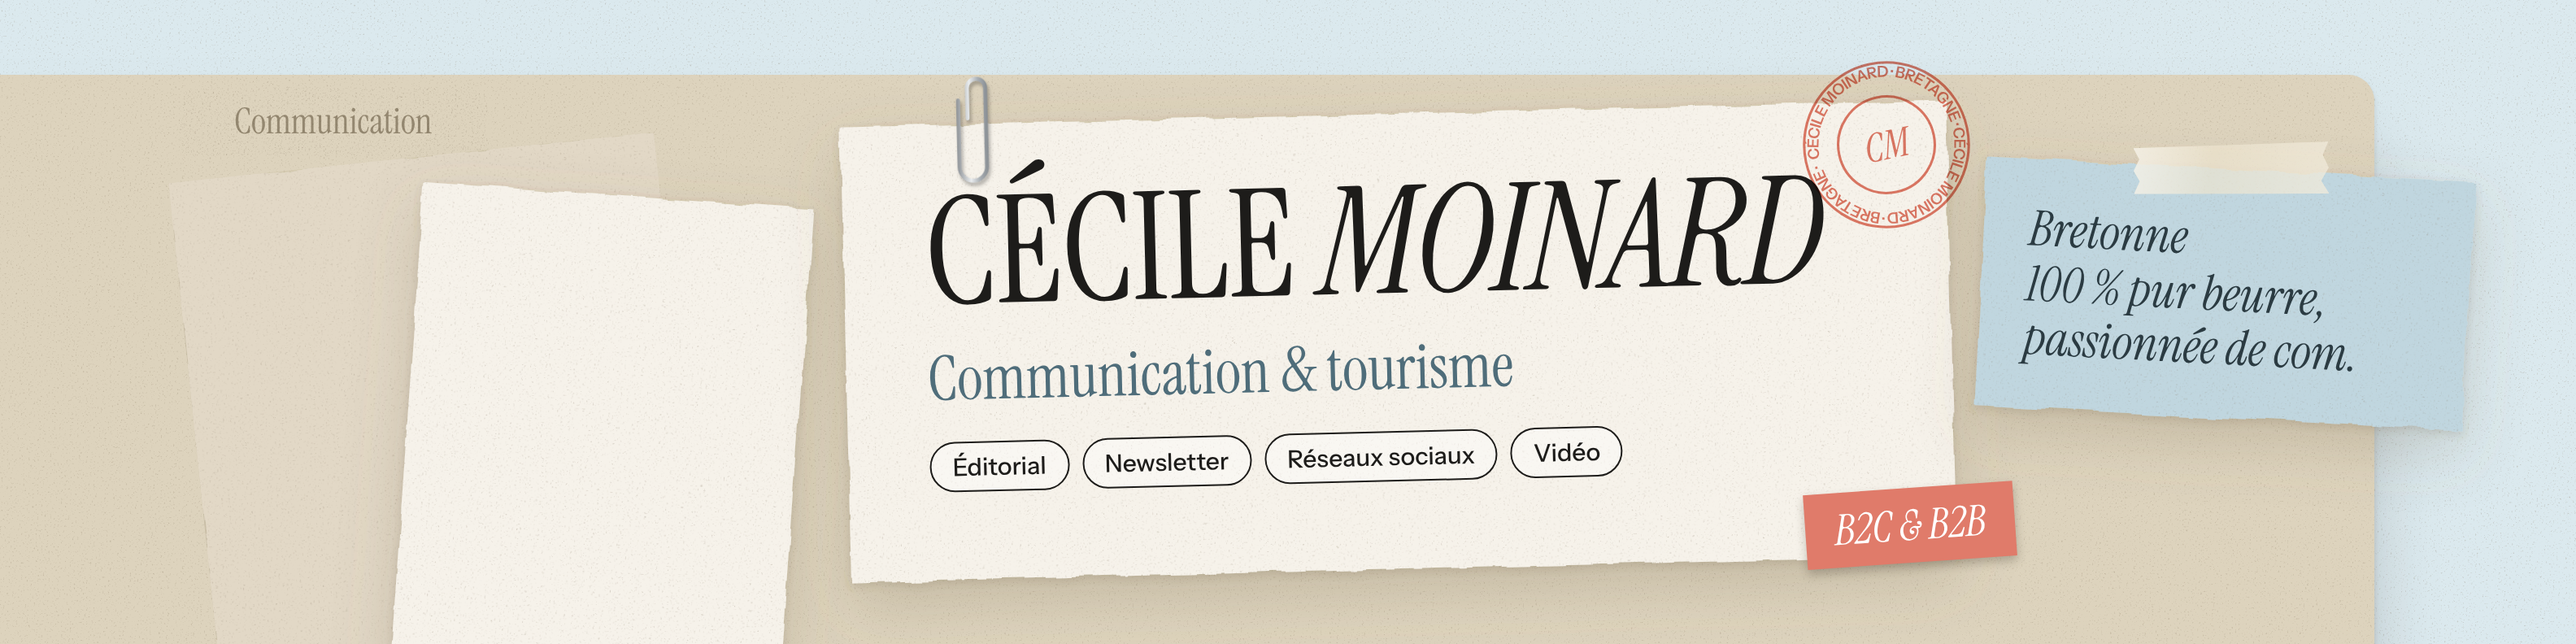
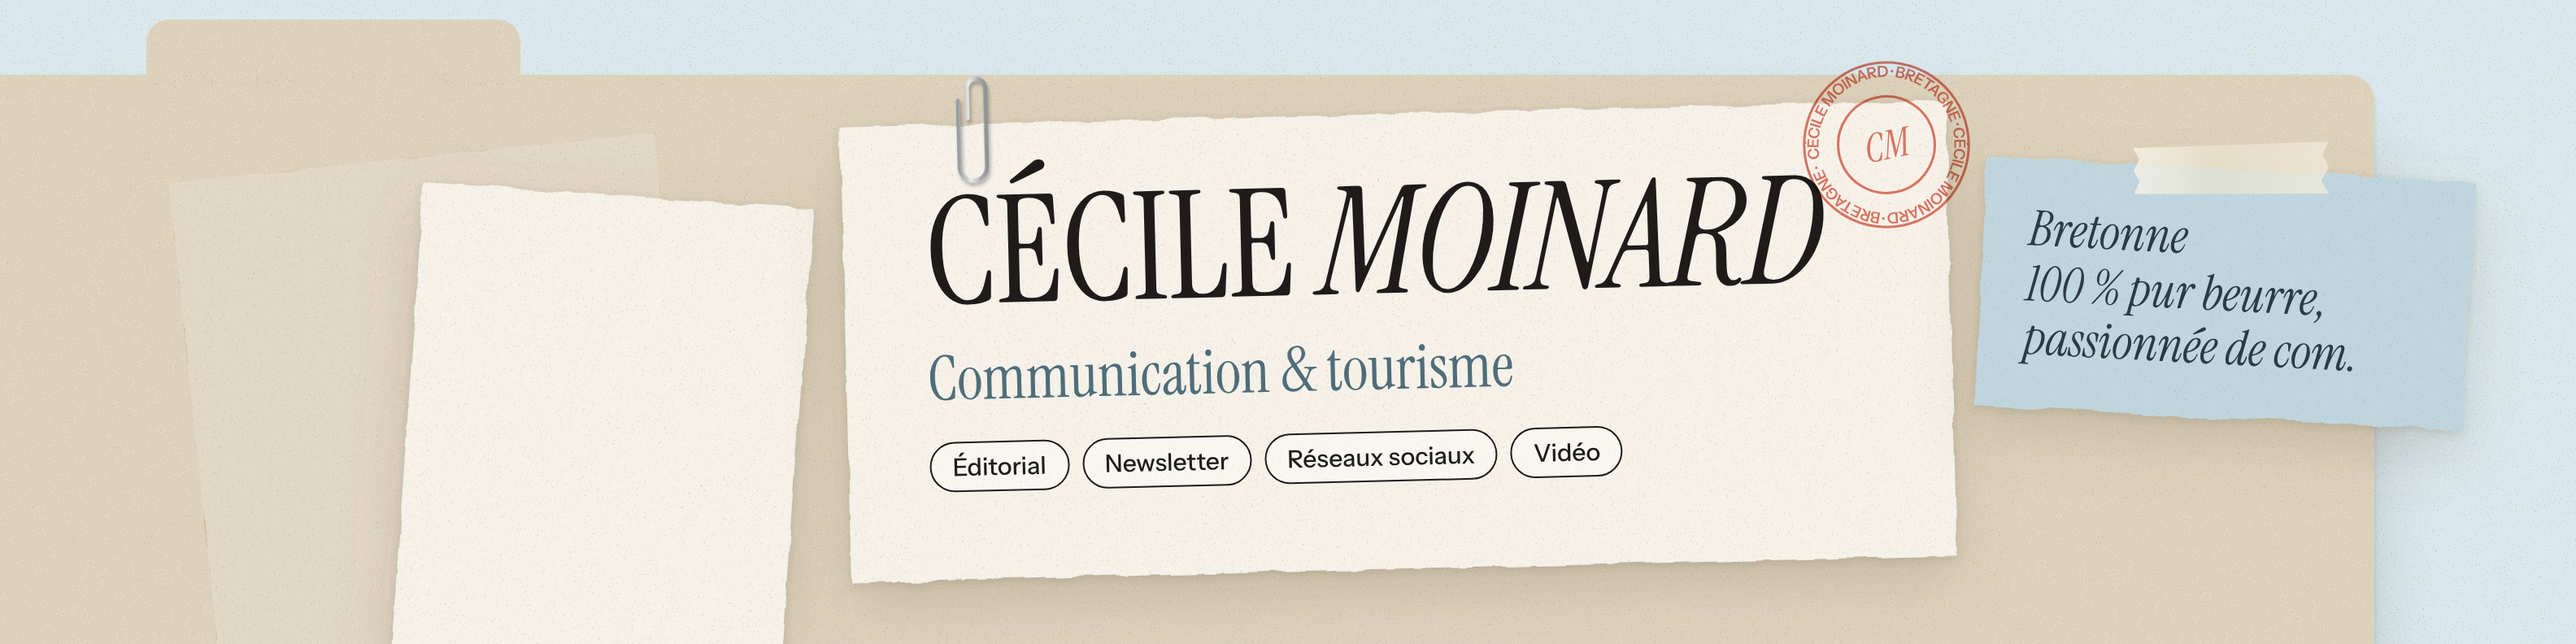
Bannière LinkedIn : onglet de chemise sans texte, autocollant B2C & B2B retiré
Claude-Session: https://claude.ai/code/session_01GLTHKFgKeXwWvvFJwYZPiH

Changed region(s): [[0.0312, 0.0303, 0.2188, 0.1212], [0.6875, 0.7273, 0.7812, 0.9091], [0.0938, 0.1818, 0.1875, 0.2121]]

diff --git a/linkedin/banniere.html b/linkedin/banniere.html
@@ -76,6 +76,7 @@ body { width: 1584px; height: 396px; overflow: hidden; background: var(--desk) v
 .perso { width: 300px !important; right: 66px !important; top: 104px !important; padding: 26px 28px !important; transform: rotate(3deg) !important; }
 .perso::before { background-color: var(--pale) !important; }
 .note.perso p { font: italic 400 30px/1.12 "Instrument Serif", serif !important; color: var(--slate-dark); }
+.tab { top: -34px !important; height: 40px !important; width: 230px; padding: 0 !important; left: 130px !important; }
 </style>
 </head>
 <body>
@@ -84,7 +85,7 @@ body { width: 1584px; height: 396px; overflow: hidden; background: var(--desk) v
   <filter id="rough" x="-3%" y="-3%" width="106%" height="106%"><feTurbulence type="fractalNoise" baseFrequency=".035" numOctaves="3" seed="4" result="n"/><feDisplacementMap in="SourceGraphic" in2="n" scale="5" xChannelSelector="R" yChannelSelector="G"/></filter>
 </defs><symbol id="clip" viewBox="0 0 30 80"><path d="M9 34V14a6 6 0 0 1 12 0v52a9 9 0 0 1-18 0V22" fill="none" stroke="url(#metal)" stroke-width="2.6" stroke-linecap="round"/></symbol></svg>
 
-<div class="folder"><span class="tab">Communication</span></div>
+<div class="folder"><span class="tab"></span></div>
 
 <div class="sheet holes"></div>
 <div class="sheet holes2"></div>
@@ -101,7 +102,7 @@ body { width: 1584px; height: 396px; overflow: hidden; background: var(--desk) v
   <p>Bretonne<br>100&nbsp;% pur&nbsp;beurre,<br>passionnée de com.</p>
 </div>
 
-<div class="sticker">B2C &amp; B2B</div>
+
 
 <div class="stamp">
   <svg viewBox="0 0 100 100"><defs><path id="c" d="M50 50m-38 0a38 38 0 1 1 76 0a38 38 0 1 1-76 0"/></defs>
